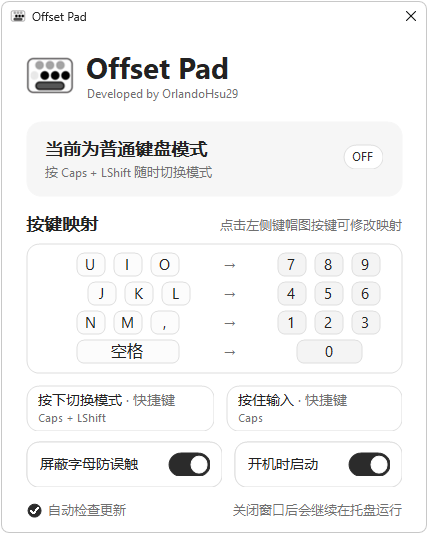
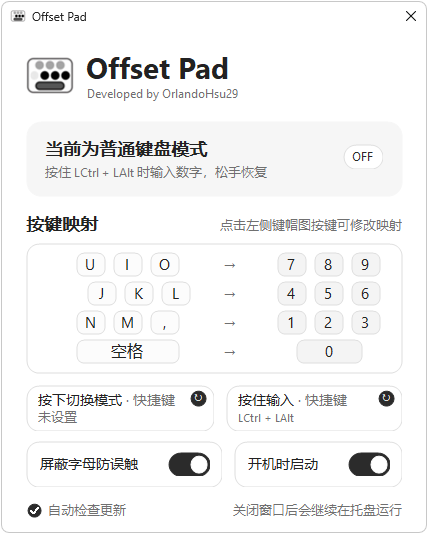
docs: update shortcut guide and README screenshot

diff --git a/src/README.md b/src/README.md
@@ -53,9 +53,9 @@ gcc -std=c11 -DUNICODE -D_UNICODE -Wall -Wextra -Isrc/app -Isrc/input tests\app_
 
 ## 设置与资源
 
-快捷键、快捷键启用状态、自定义键位、“屏蔽字母防误触”和“自动检查更新”开关保存在 `HKCU\Software\Offset Pad`；自动检查更新默认开启，每次启动时通过 WinHTTP 请求 GitHub Releases 最新稳定版接口，只有发现更新才显示托盘通知，不会下载或安装；新录入的快捷键分别保存左右 Ctrl、Alt、Shift、Win，旧版保存的通用修饰键仍兼容任意一侧；先前保存的 11 键位设置会保留前 10 个数字映射；开机时启动项位于 `HKCU\Software\Microsoft\Windows\CurrentVersion\Run`，值名为 `Offset Pad`。卸载时会移除这些设置。
+快捷键、快捷键启用状态、自定义键位、“屏蔽字母防误触”和“自动检查更新”开关保存在 `HKCU\Software\Offset Pad`；自动检查更新默认开启，每次启动时通过 WinHTTP 请求 GitHub Releases 最新稳定版接口，只有发现更新才显示托盘通知，不会下载或安装；先前保存的 11 键位设置会保留前 10 个数字映射；开机时启动项位于 `HKCU\Software\Microsoft\Windows\CurrentVersion\Run`，值名为 `Offset Pad`。卸载时会移除这些设置。
 
-“屏蔽字母防误触”新安装默认开启；已保存的开关值不变。“按下切换模式”快捷键默认为 Caps Lock + LShift；“按住输入”快捷键默认为 Caps Lock。按住 Caps Lock 并输入字符时临时启用小键盘，松开 Caps Lock 后恢复此前模式；短按 Caps Lock 会正常切换大小写锁定；按住约 500 毫秒且期间没有按其他键，再松开时会恢复按下前的大小写状态（此时用户意图识别为：本想触发小键盘但反悔）；若按住后输入字符触发小键盘，松开 Caps Lock 后会恢复原有锁定状态。临时输入不会改写持久化的模式开关。程序每次启动均从普通键盘模式开始，模式状态只在本次运行中有效。录入任一快捷键时按 Delete 或 Backspace 可清除绑定；托盘菜单的“禁用快捷键”选项会同时停用两种快捷键，不影响界面按钮操作。
+“屏蔽字母防误触”新安装默认开启；已保存的开关值不变。“按下切换模式”快捷键默认为 LCtrl + Caps Lock；“按住输入”快捷键默认为 Caps Lock。按住 Caps Lock 并输入字符时临时启用小键盘，松开 Caps Lock 后恢复此前模式；短按 Caps Lock 会正常切换大小写锁定；按住约 500 毫秒且期间没有按其他键，再松开时会恢复按下前的大小写状态（此时用户意图识别为：本想触发小键盘但反悔）；若按住后输入字符触发小键盘，松开 Caps Lock 后会恢复原有锁定状态。临时输入不会改写持久化的模式开关。程序每次启动均从普通键盘模式开始，模式状态只在本次运行中有效。录入任一快捷键时按 Delete 或 Backspace 可清除绑定；托盘菜单的“禁用快捷键”选项会同时停用两种快捷键，不影响界面按钮操作。
 
 误按提醒仅在小键盘模式下统计未映射的普通字母首次按下：1.5 秒内 3 次触发；同次开启小键盘时提醒后冷却 10 秒，冷却期按键不计入下一轮；切回普通模式再开启会清除冷却，可立即重新统计。已映射键、长按重复和 Ctrl/Alt/Win 组合键不计数。通知通过现有托盘图标发送。
 

diff --git a/README.md b/README.md
@@ -13,7 +13,7 @@ Offset Pad 把右手打字区临时变成近似九宫格的小键盘。左手按
 ## 快速开始
 
 1. 运行 Windows x64 安装包，安装并打开 Offset Pad。
-2. 点击状态卡片上的 `OFF` / `ON`，或按默认快捷键 **`Caps Lock` + `LShift`** 切换模式；按住 **`Caps Lock`** 并输入字符可临时使用小键盘，松开 `Caps Lock` 后恢复。短按 `Caps Lock` 会正常切换大小写锁定。
+2. 点击状态卡片上的 `OFF` / `ON`，或按默认快捷键 **`LCtrl` + `Caps Lock`** 切换模式；按住 **`Caps Lock`** 并输入字符可临时使用小键盘，松开 `Caps Lock` 后恢复。短按 `Caps Lock` 会正常切换大小写锁定。
     - 由于我电脑后台有很多效率工具，顺手的快捷键基本都已经被其他软件占用了，所以专门去适配了 **`Caps Lock`** 键来作为快捷键，将「`Caps Lock` + 功能键」作为快捷键不会被`Caps Lock`原有的功能干扰，短按 `Caps Lock` 仍保留原有的大小写锁定功能；按住 `Caps Lock`（默认快捷键）输入数字，松手后恢复原模式。
 3. 点击“按键映射”中左侧的键帽，按字母、数字、常用符号或空格重新绑定；按  **`Esc`** 取消。已占用的键会与原键交换。
 4. 设置窗口可分别设置“切换模式”和“按住输入”：按住后暂时输入数字，松开即恢复此前模式；按住输入期间按 Backspace 只删除一个字符。录入时会区分**左右 `Ctrl`、`Alt`、`Shift`** 和 **`Win`**，并显示为 **`LCtrl`**、**`RCtrl`** 等；按 **`Delete`** 或 **`Backspace`** 可清除录入中的快捷键；托盘菜单可禁用两种快捷键，单独的模式开关仍可使用。
@@ -40,9 +40,6 @@ Offset Pad 把右手打字区临时变成近似九宫格的小键盘。左手按
 
 ![Offset Pad 设置窗口](media/run.png)
 
-## 自动检查更新
-
-启用“自动检查更新”后，Offset Pad 每次启动时会查询 GitHub Releases；发现新版本时通过系统托盘通知提示。此功能只检查并打开发布页，不会自动下载或安装。
 
 源码构建与项目结构见 [src/README.md](src/README.md)。
 
